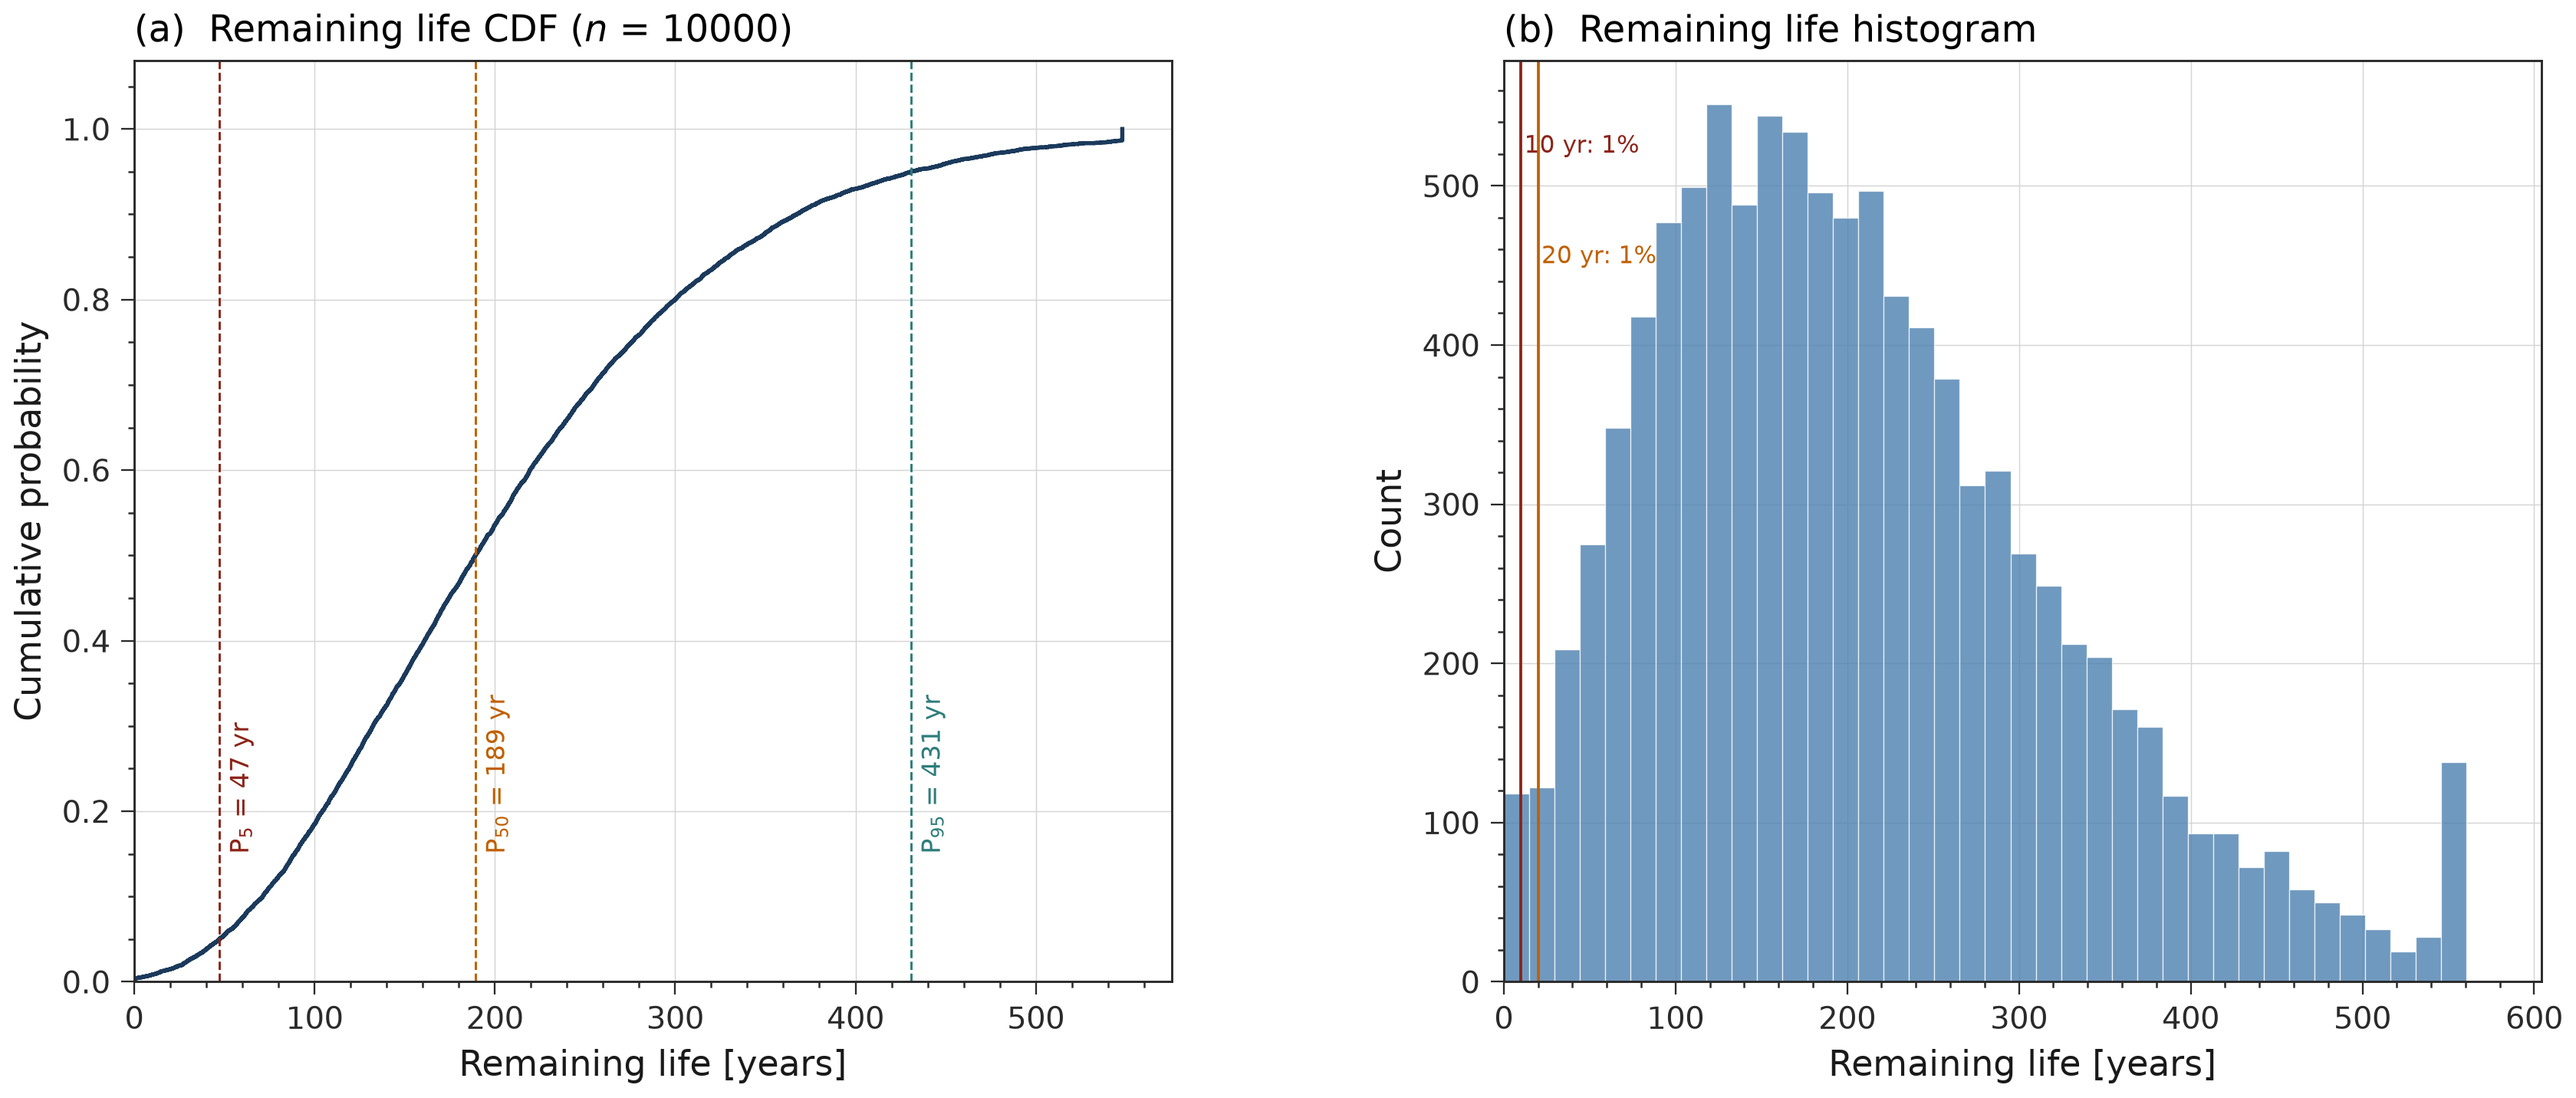
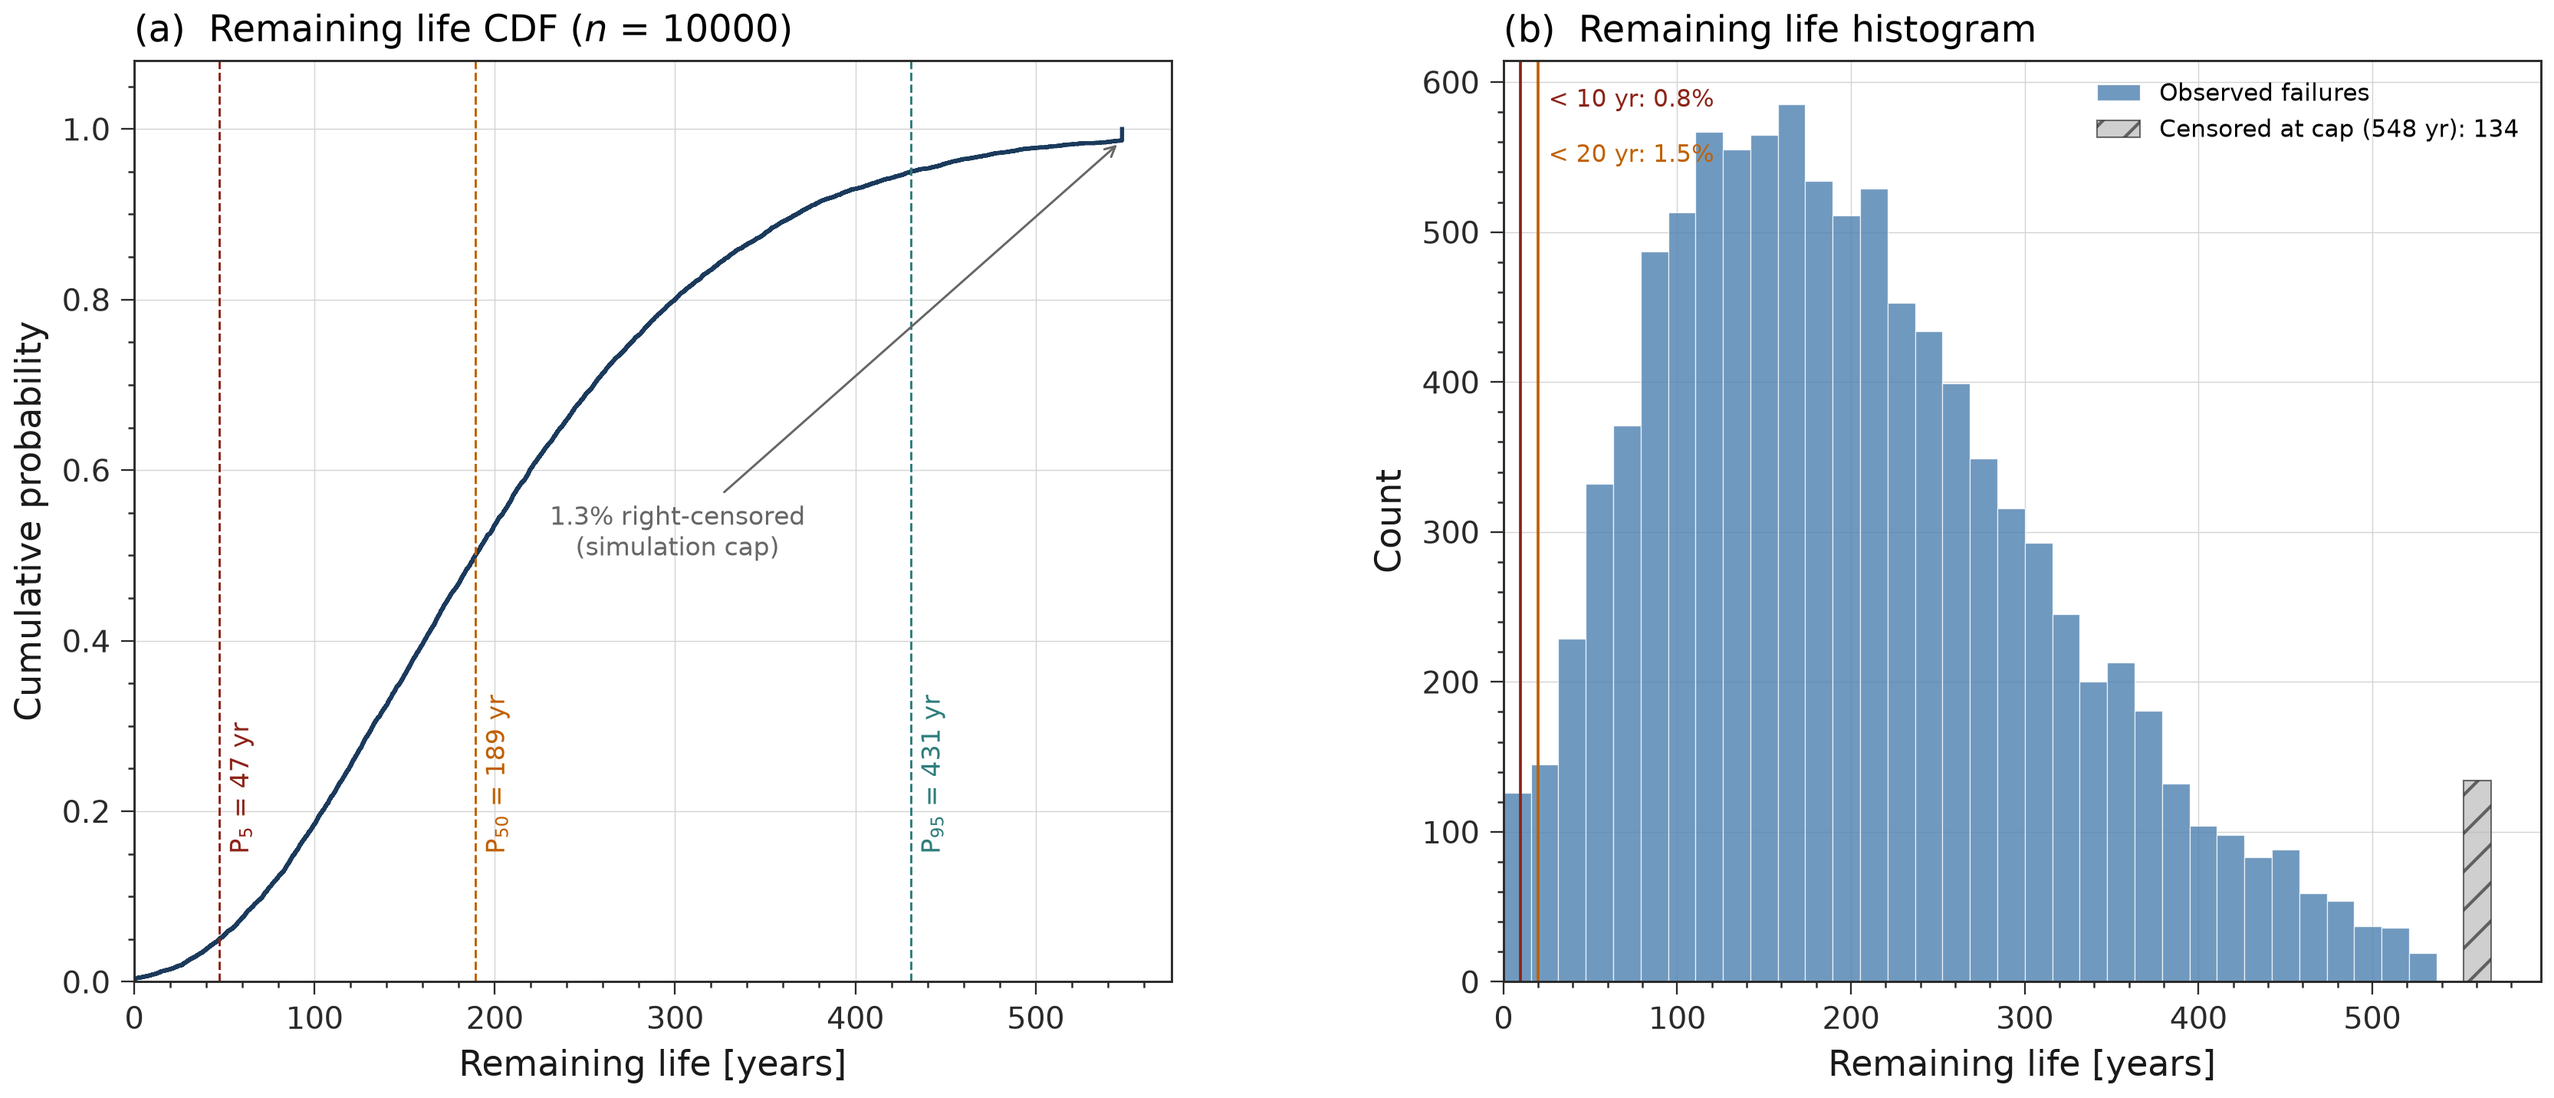
fix(viz): label caps and fix mismatched clocks in figures
- GIF: each frame paired a diffusion snapshot (0 to 7 days) with a crack state
  up to 101,800 cycles, so the title read 't = 4 d | N = 52,200'. The profile
  is now taken at the crack state's time, clamped as in run_life_prediction,
  and the title shows that time in years. Stale ICS2 label removed; colorbar
  units added.
- MC histogram: the 134 samples clipped at the 548 yr cap were drawn as an
  unlabelled spike, because the censoring flag needed more than 10%. Ties at
  the cap are now detected exactly and drawn as the hatched censored bar.
  Threshold labels read 0.8% and 1.5% (were rounded to 1%) and no longer sit
  on the 10 and 20 yr lines.
- Parity: the 154 LHS runouts at the 274 yr cycle cap are marked.
- Hero: fracture end point and cycle count labelled.
- FAD: the unsafe shading stopped at Lr = 1.8, leaving the region beyond it
  white; it now covers everything right of the cut-off. Start marker notes
  that it is the uncharged (C_H = 0) point.
- Iso-risk colorbar: round ticks and the > 150 yr arrow explained.

diff --git a/src/visualization.py b/src/visualization.py
@@ -118,6 +118,13 @@ def plot_hero_diffusion_crack(diffusion_result, life_result, geom,
         ax2.set_xlabel("Fatigue cycles, $N$")
         ax2.set_ylabel("Crack depth, $a$ [mm]")
         ax2.set_title("(b)  HA-FCG at ERW seam", loc="left")
+        if life_result.failure_mode != "no_failure":
+            ax2.plot(cyc[-1], a_mm[-1], "s", color=_DRED, ms=5, zorder=5)
+            ax2.annotate(f"{life_result.failure_mode.replace('_', ' ')}\n"
+                         f"N = {life_result.failure_cycle:,}",
+                         xy=(cyc[-1], a_mm[-1]), xytext=(-8, 0),
+                         textcoords="offset points", ha="right", va="center",
+                         fontsize=8, color=_DRED)
         ax2.legend(fontsize=7.5, loc="upper left")
         ax2.minorticks_on()
 
@@ -155,11 +162,13 @@ def plot_monte_carlo_cdf(mc_result, save_path="assets/mc_cdf.png"):
     cdf = np.arange(1, len(srl)+1) / len(srl)
 
     # Detect right-censoring threshold (cluster of samples at max value)
+    # Lives are clipped at the simulation cap, so censored samples tie exactly
+    # at the maximum; an uncensored maximum is a single sample.
     max_life = srl[-1]
-    censor_tol = max_life * 0.02  # within 2% of max = censored
-    n_censored = int(np.sum(rl >= max_life - censor_tol))
+    censor_tol = max_life * 0.02  # bin spacing guard for the histogram
+    n_censored = int(np.sum(np.isclose(rl, max_life)))
     frac_censored = n_censored / len(rl)
-    has_censoring = frac_censored > 0.10  # flag if >10% censored
+    has_censoring = n_censored > 1
 
     # CDF
     ax1.step(srl, cdf, where="post", color=_NAV, lw=1.3)
@@ -171,7 +180,7 @@ def plot_monte_carlo_cdf(mc_result, save_path="assets/mc_cdf.png"):
                  fontsize=8, color=cl, rotation=90, va="bottom")
 
     if has_censoring:
-        ax1.annotate(f"{frac_censored:.0%} right-censored\n(simulation cap)",
+        ax1.annotate(f"{frac_censored:.1%} right-censored\n(simulation cap)",
                      xy=(max_life, 1.0 - frac_censored), xytext=(max_life*0.55, 0.5),
                      fontsize=8, color=_G60, ha="center",
                      arrowprops=dict(arrowstyle="->", color=_G60, lw=0.7))
@@ -183,30 +192,31 @@ def plot_monte_carlo_cdf(mc_result, save_path="assets/mc_cdf.png"):
 
     # Histogram: separate censored from uncensored
     if has_censoring:
-        rl_uncensored = rl[rl < max_life - censor_tol]
+        rl_uncensored = rl[~np.isclose(rl, max_life)]
         bin_max = max_life - censor_tol if len(rl_uncensored) > 0 else max_life
-        bins = np.linspace(0, bin_max * 1.05, 35)
+        bins = np.linspace(0, bin_max, 35)
 
         ax2.hist(rl_uncensored, bins=bins, color=_STL,
                  edgecolor="white", lw=0.3, alpha=0.8, label="Observed failures")
 
         # Censored bar: placed at the right edge, hatched
         bar_width = bins[1] - bins[0] if len(bins) > 1 else 5
-        bar_x = bin_max * 1.05 + bar_width * 0.5
+        bar_x = bin_max + bar_width * 1.5
         ax2.bar(bar_x, n_censored, width=bar_width, color=_G80,
                 edgecolor=_CHAR, linewidth=0.5, hatch="//", alpha=0.7,
-                label=f"Censored (>{max_life:.0f} yr): {n_censored}")
-        ax2.legend(fontsize=7.5, loc="upper center")
+                label=f"Censored at cap ({max_life:.0f} yr): {n_censored}")
+        ax2.legend(fontsize=7.5, loc="upper right")
     else:
         bins = np.linspace(0, max(srl)*1.05, 40)
         ax2.hist(rl, bins=bins, color=_STL, edgecolor="white", lw=0.3, alpha=0.8)
 
     ym = ax2.get_ylim()[1]
+    # Both labels sit right of the 20 yr line so neither line crosses a label
     ax2.axvline(10, color=_DRED, ls="-", lw=0.9)
-    ax2.text(12, ym*0.92, f"10 yr: {mc_result.fraction_below_10yr:.0%}",
+    ax2.text(26, ym*0.97, f"< 10 yr: {mc_result.fraction_below_10yr:.1%}",
              fontsize=7.5, color=_DRED, va="top")
     ax2.axvline(20, color=_ORNG, ls="-", lw=0.9)
-    ax2.text(22, ym*0.80, f"20 yr: {mc_result.fraction_below_20yr:.0%}",
+    ax2.text(26, ym*0.91, f"< 20 yr: {mc_result.fraction_below_20yr:.1%}",
              fontsize=7.5, color=_ORNG, va="top")
     ax2.set_xlabel("Remaining life [years]")
     ax2.set_ylabel("Count")
@@ -266,6 +276,14 @@ def plot_surrogate_parity(surrogate_result, save_path="assets/surrogate_parity.p
     ax1.set_ylabel("GBR surrogate [years]")
     ax1.set_title(f"(a)  Parity (R$^2$ = {surrogate_result.r2_test:.3f},"
                   f"  MAE = {surrogate_result.mae_test:.1f} yr)", loc="left")
+    # LHS lives are clipped at the sweep's cycle cap; mark the tied runouts
+    cap = yt.max()
+    n_cap = int(np.sum(np.isclose(yt, cap)))
+    if n_cap > 1:
+        ax1.axvline(cap, color=_G60, lw=0.7, ls=":", zorder=2)
+        ax1.text(cap - lm * 0.01, lm * 0.03,
+                 f"cycle cap, {cap:.0f} yr\n({n_cap} runouts)",
+                 ha="right", va="bottom", fontsize=7.5, color=_G60)
     ax1.set_xlim(lims); ax1.set_ylim(lims)
     ax1.set_aspect("equal"); ax1.minorticks_on()
 
@@ -349,8 +367,9 @@ def plot_iso_risk_contour(lhs_params, lhs_lives, param_names,
     life_max = min(LI.max(), 150)
     levels = np.linspace(0, life_max, 25)
     cf = ax.contourf(PI, AI_mm, LI, levels=levels, cmap="RdYlGn", extend="max")
-    cb = fig.colorbar(cf, ax=ax, pad=0.02, aspect=30)
-    cb.set_label("Remaining life [years]", fontsize=10)
+    cb = fig.colorbar(cf, ax=ax, pad=0.02, aspect=30,
+                      ticks=np.arange(0, life_max + 1e-9, 25))
+    cb.set_label(f"Remaining life [years] (arrow: > {life_max:.0f})", fontsize=10)
     cb.ax.tick_params(labelsize=8.5)
 
     # Threshold contours
@@ -421,9 +440,9 @@ def plot_fad(life_result, geom, mat, he, p_max_MPa,
     Lr_env = np.linspace(0, L_r_cut, 200)
     Kr_env = fad_curve(Lr_env)
 
-    # Fill unsafe region
-    ax.fill_between(Lr_env, Kr_env, 1.5, color="#f5e6e6", alpha=0.5, zorder=1)
-    ax.fill_betweenx([0, 1.5], L_r_cut, 1.8, color="#f5e6e6", alpha=0.5, zorder=1)
+    # Fill unsafe region: above the envelope and everywhere right of the cut-off
+    ax.fill_between(Lr_env, Kr_env, 2.0, color="#f5e6e6", alpha=0.5, zorder=1)
+    ax.fill_betweenx([0, 2.0], L_r_cut, 3.5, color="#f5e6e6", alpha=0.5, zorder=1)
     ax.plot(Lr_env, Kr_env, color=_DRED, lw=1.6, zorder=4, label="FAD envelope (API 579-1 Level 2)")
     ax.axvline(L_r_cut, color=_DRED, lw=1.0, ls="--", zorder=4)
 
@@ -459,9 +478,11 @@ def plot_fad(life_result, geom, mat, he, p_max_MPa,
         cb.set_label("Fatigue cycles, $N$", fontsize=9.5)
         cb.ax.tick_params(labelsize=8.5)
 
-        # Start and end markers
+        # Start and end markers. The start point uses C_H = 0 (no hydrogen
+        # yet, undegraded K_IC), so it sits below the first charged point.
         ax.plot(Lr_traj[0], Kr_traj[0], "o", color=_TEAL, ms=7, zorder=6,
-                markeredgecolor="white", markeredgewidth=0.8, label="Start")
+                markeredgecolor="white", markeredgewidth=0.8,
+                label=r"Start ($C_{\mathrm{H}}$ = 0)")
         ax.plot(Lr_traj[-1], Kr_traj[-1], "s", color=_DRED, ms=7, zorder=6,
                 markeredgecolor="white", markeredgewidth=0.8, label="End")
 
@@ -506,7 +527,7 @@ def plot_fad(life_result, geom, mat, he, p_max_MPa,
 # ============================================================
 def generate_gif(diffusion_result, life_result, geom,
                  save_path="assets/h2_crack_evolution.gif",
-                 n_frames=40, fps=4):
+                 n_frames=40, fps=4, ops=None):
     """
     Animated GIF with engineering-style presentation.
     Left: H2 concentration profile with filled area.
@@ -519,25 +540,26 @@ def generate_gif(diffusion_result, life_result, geom,
     from matplotlib.patches import Rectangle
     from matplotlib.colors import Normalize
     from matplotlib.cm import ScalarMappable
+    if ops is None:
+        from config import default_config
+        ops = default_config()["ops"]
+    # Same clock as ha_fcg.run_life_prediction: cycle N happens at
+    # N * seconds_per_cycle, and the diffusion field is clamped at its last time.
+    seconds_per_cycle = 365.25 * 24 * 3600 / ops.cycles_per_year
 
     x_mm = diffusion_result.x_grid * 1000.0
     wall_mm = geom.wall_thickness_m * 1000.0
-    n_av = len(diffusion_result.t_grid)
-    fidxs = np.linspace(0, n_av-1, n_frames, dtype=int)
     c_max = max(diffusion_result.C_field.max() * 1.12, 0.01)
     n_x = len(x_mm)
 
     frames = []
 
-    for fi, f_idx in enumerate(fidxs):
+    for fi in range(n_frames):
         fig = plt.figure(figsize=(12.5, 5.2))
         gs = fig.add_gridspec(1, 3, width_ratios=[1.3, 0.05, 0.8], wspace=0.08)
         ax1 = fig.add_subplot(gs[0, 0])
         ax_cb = fig.add_subplot(gs[0, 1])
         ax2 = fig.add_subplot(gs[0, 2])
-
-        t_d = diffusion_result.t_grid[f_idx] / 86400.0
-        C_p = diffusion_result.C_field[f_idx]
 
         frac = fi / max(n_frames-1, 1)
         if len(life_result.crack_history_a) > 2:
@@ -548,6 +570,12 @@ def generate_gif(diffusion_result, life_result, geom,
         else:
             cmm = life_result.initial_pit_depth_m * 1000.0; cn = 0
 
+        # Hydrogen profile at the time of this crack state (clamped as in the solver)
+        t_s = cn * seconds_per_cycle
+        f_idx = int(np.argmin(np.abs(diffusion_result.t_grid
+                                     - min(t_s, diffusion_result.t_grid[-1]))))
+        C_p = diffusion_result.C_field[f_idx]
+
         # Left: concentration profile
         ax1.fill_between(x_mm, 0, C_p, color=_STL, alpha=0.18)
         ax1.plot(x_mm, C_p, color=_NAV, lw=1.3)
@@ -555,8 +583,8 @@ def generate_gif(diffusion_result, life_result, geom,
         ax1.set_xlim(0, wall_mm); ax1.set_ylim(0, c_max)
         ax1.set_xlabel("Depth [mm]")
         ax1.set_ylabel(r"$C_{\mathrm{H}}$ [mol m$^{-3}$]")
-        ax1.set_title(f"t = {t_d:.0f} d  |  N = {cn:,}  |  a = {cmm:.2f} mm",
-                      loc="left", fontsize=9.5)
+        ax1.set_title(f"t = {t_s / (365.25 * 86400):.1f} yr  |  N = {cn:,}  |  "
+                      f"a = {cmm:.2f} mm", loc="left", fontsize=9.5)
         ax1.minorticks_on()
 
         # Right: color-mapped wall cross-section
@@ -625,10 +653,10 @@ def generate_gif(diffusion_result, life_result, geom,
         sm = ScalarMappable(cmap=cmap, norm=norm)
         sm.set_array([])
         cb = fig.colorbar(sm, cax=ax_cb)
-        cb.set_label(r"$C_{\mathrm{H}}$", fontsize=8)
+        cb.set_label(r"$C_{\mathrm{H}}$ [mol m$^{-3}$]", fontsize=8)
         cb.ax.tick_params(labelsize=7)
 
-        fig.suptitle("ICS2 Week 7 :  H$_2$ conversion of aging LF-ERW pipeline",
+        fig.suptitle("Week 7: H$_2$ conversion of aging LF-ERW pipeline",
                      fontsize=10.5, y=0.99, color=_CHAR)
 
         buf = io.BytesIO()

diff --git a/run_all.py b/run_all.py
@@ -78,7 +78,8 @@ def main():
                           save_path=os.path.join(out, "iso_risk_contour.png"),
                           surrogate_model=surr.model)
     plot_fad(life, geom, mat, he, ops.p_max_MPa, save_path=os.path.join(out, "fad.png"))
-    generate_gif(diff, life, geom, save_path=os.path.join(out, "h2_crack_evolution.gif"))
+    generate_gif(diff, life, geom, ops=ops,
+                 save_path=os.path.join(out, "h2_crack_evolution.gif"))
     print(f"All outputs generated in {out}")
 
 
